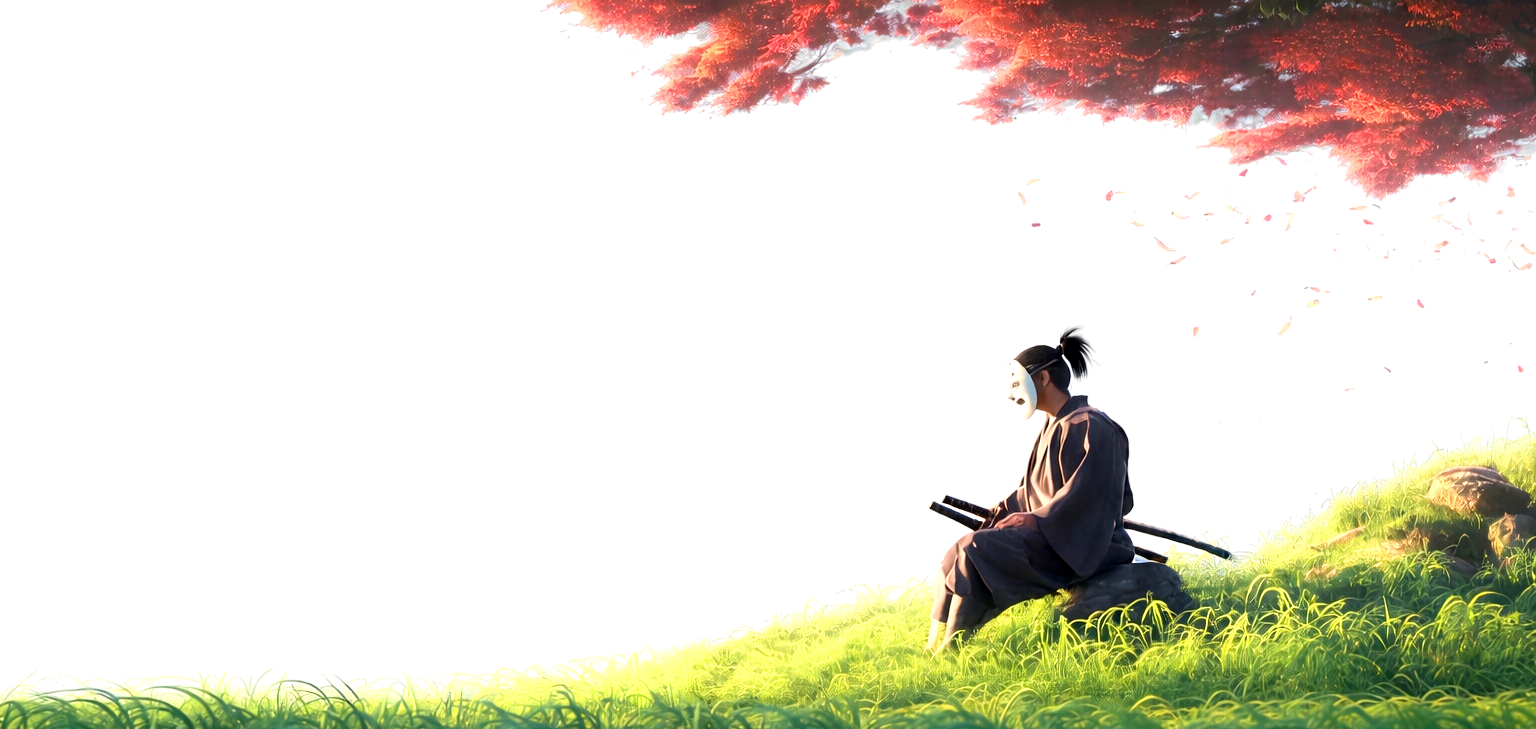
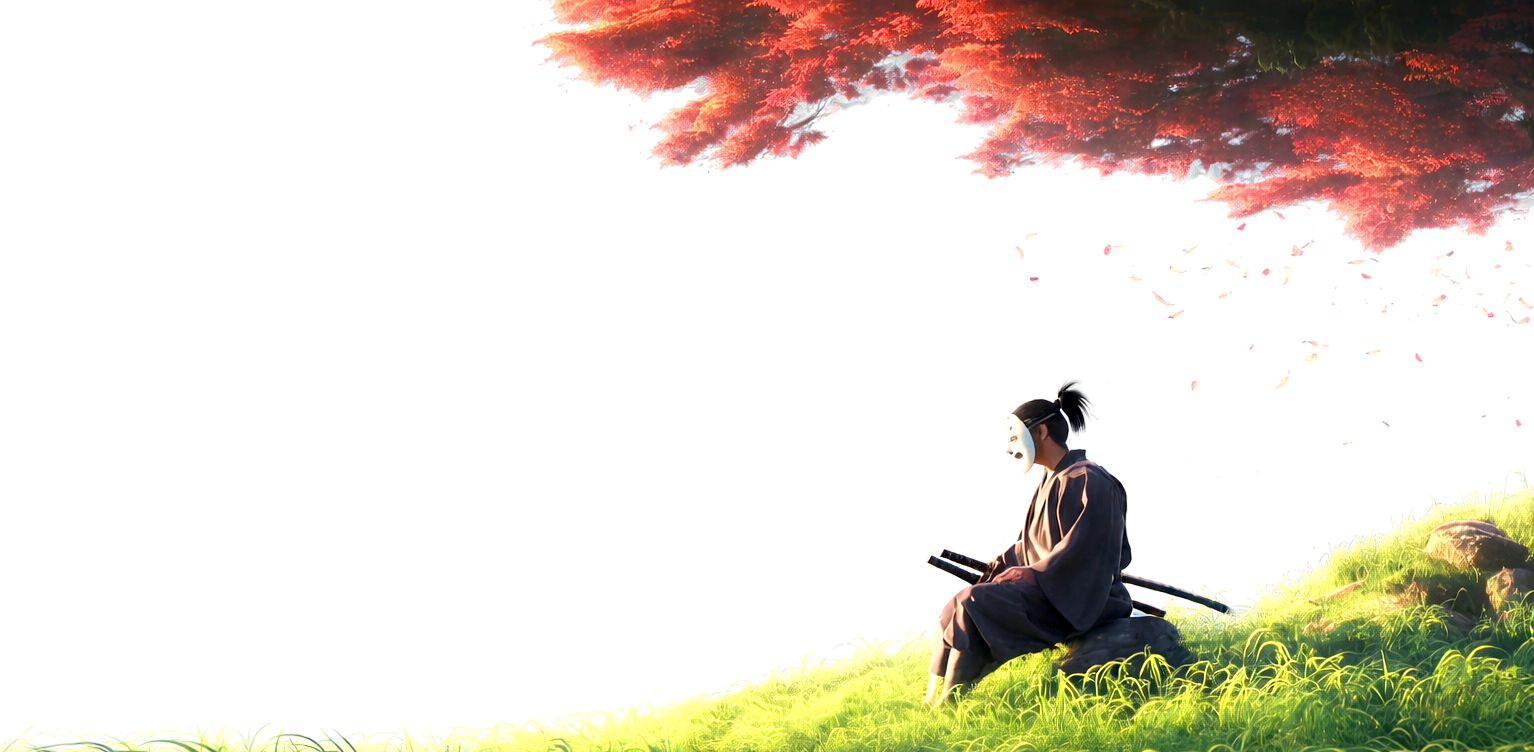
Changes

diff --git a/src/components/PortfolioContent.tsx b/src/components/PortfolioContent.tsx
@@ -97,7 +97,7 @@ const PortfolioContent = () => {
       });
     }
 
-    // Slide cutout out to the right when reaching Arsenal section
+    // Blur out cutout when reaching Arsenal section
     if (worksCutoutRef.current && arsenalRef.current) {
       ScrollTrigger.create({
         trigger: arsenalRef.current,
@@ -107,9 +107,11 @@ const PortfolioContent = () => {
         scrub: 1,
         onUpdate: (self) => {
           if (worksCutoutRef.current) {
-            const xPos = self.progress * 100;
+            const blur = self.progress * 20;
+            const opacity = 1 - self.progress;
             gsap.set(worksCutoutRef.current, { 
-              xPercent: xPos
+              filter: `blur(${blur}px)`,
+              opacity: opacity
             });
           }
         }
@@ -153,10 +155,10 @@ const PortfolioContent = () => {
       {/* Dark overlay to maintain mood */}
       <div className="fixed inset-0 bg-background/30 pointer-events-none" />
 
-      {/* Works Cutout - slides in from right for Selected Works section */}
+      {/* Works Cutout - behind Selected Works section, slides in from right */}
       <div 
         ref={worksCutoutRef}
-        className="fixed inset-0 pointer-events-none z-20"
+        className="fixed inset-0 pointer-events-none z-[5]"
       >
         <div
           className="absolute inset-0"
